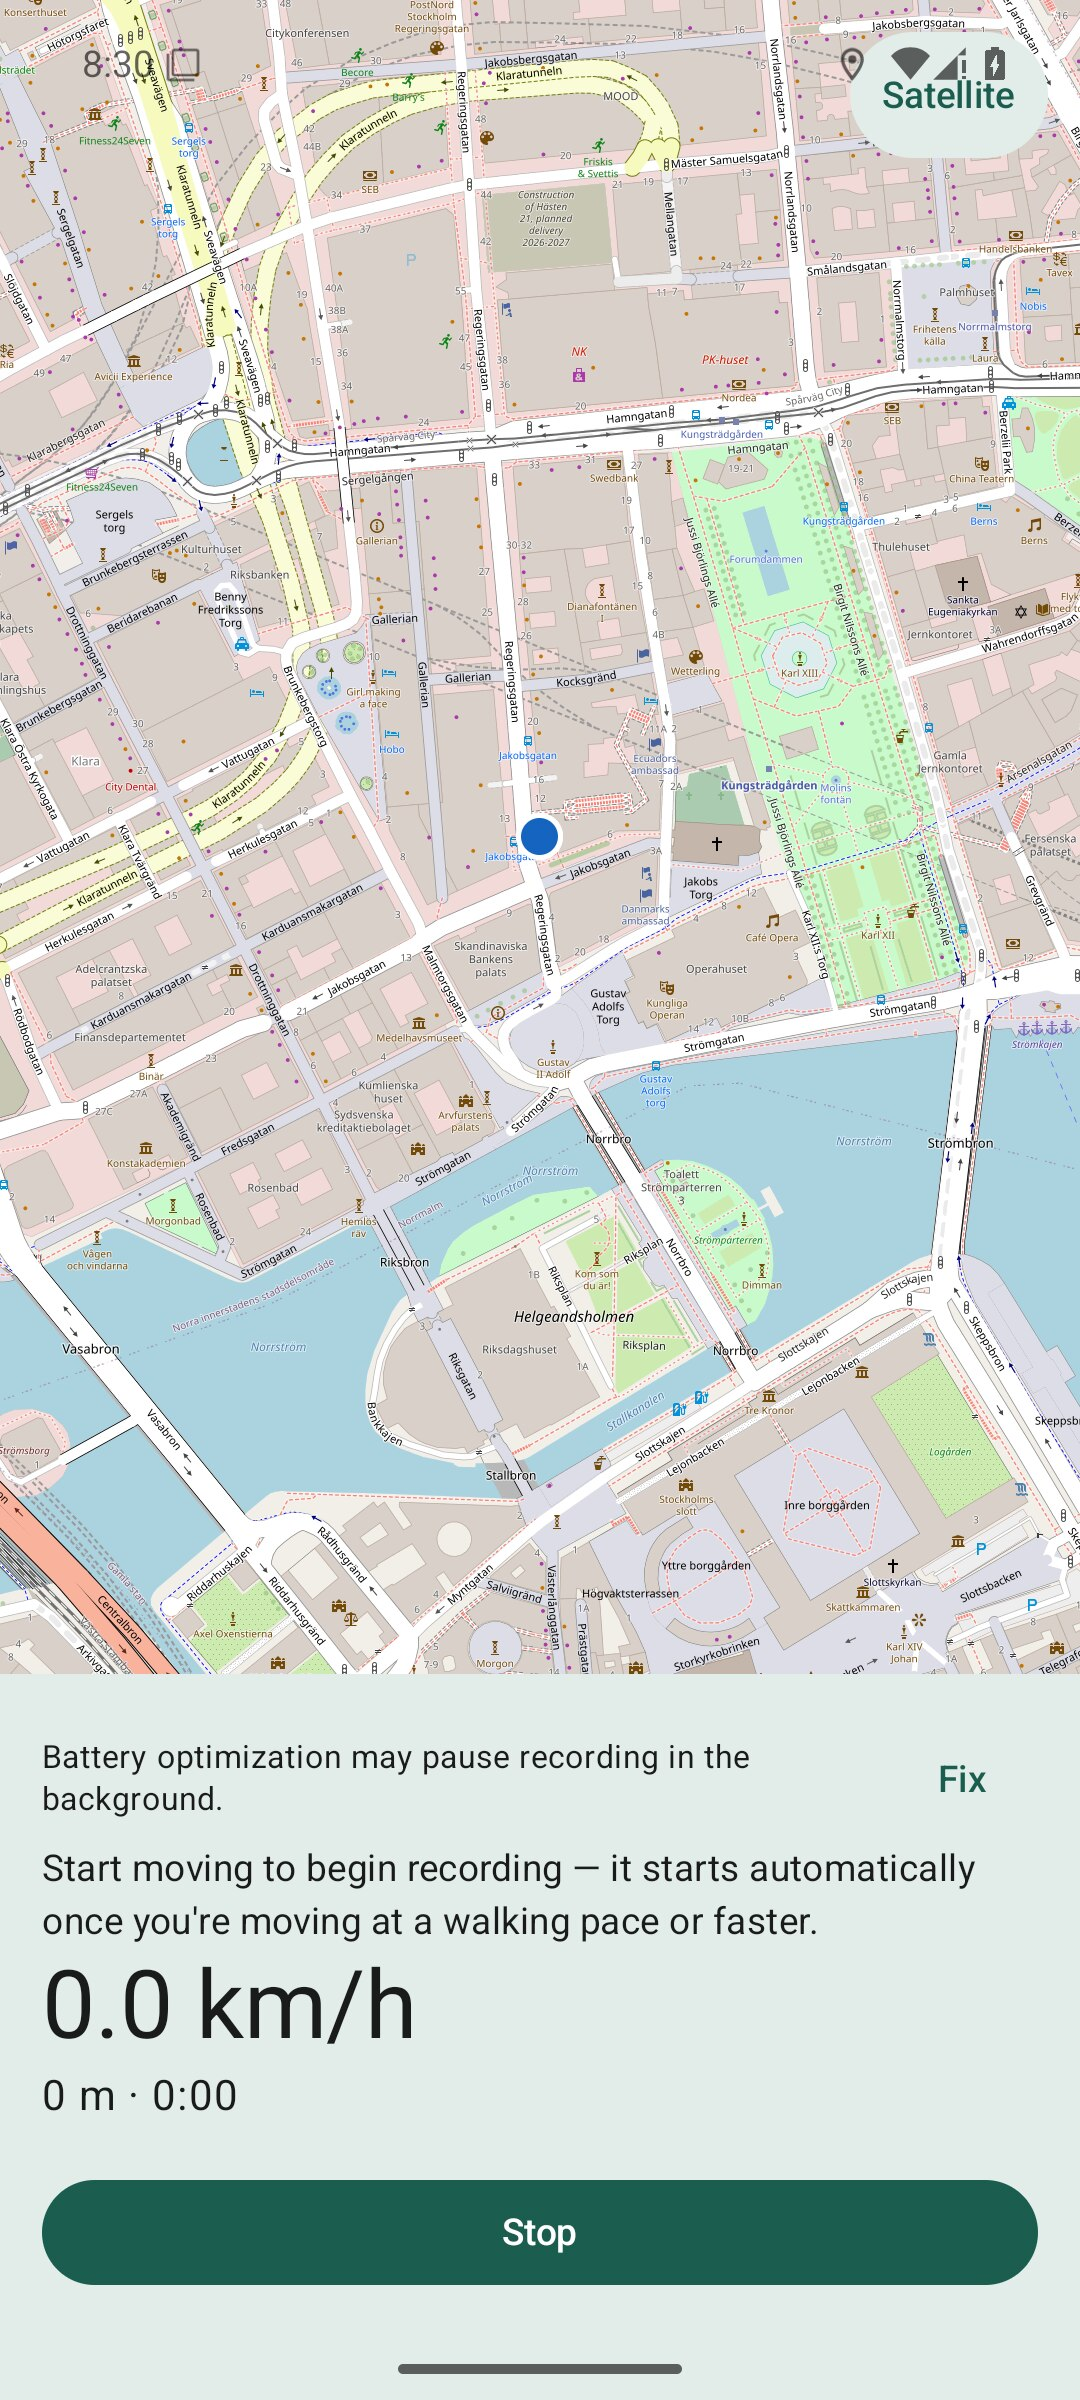
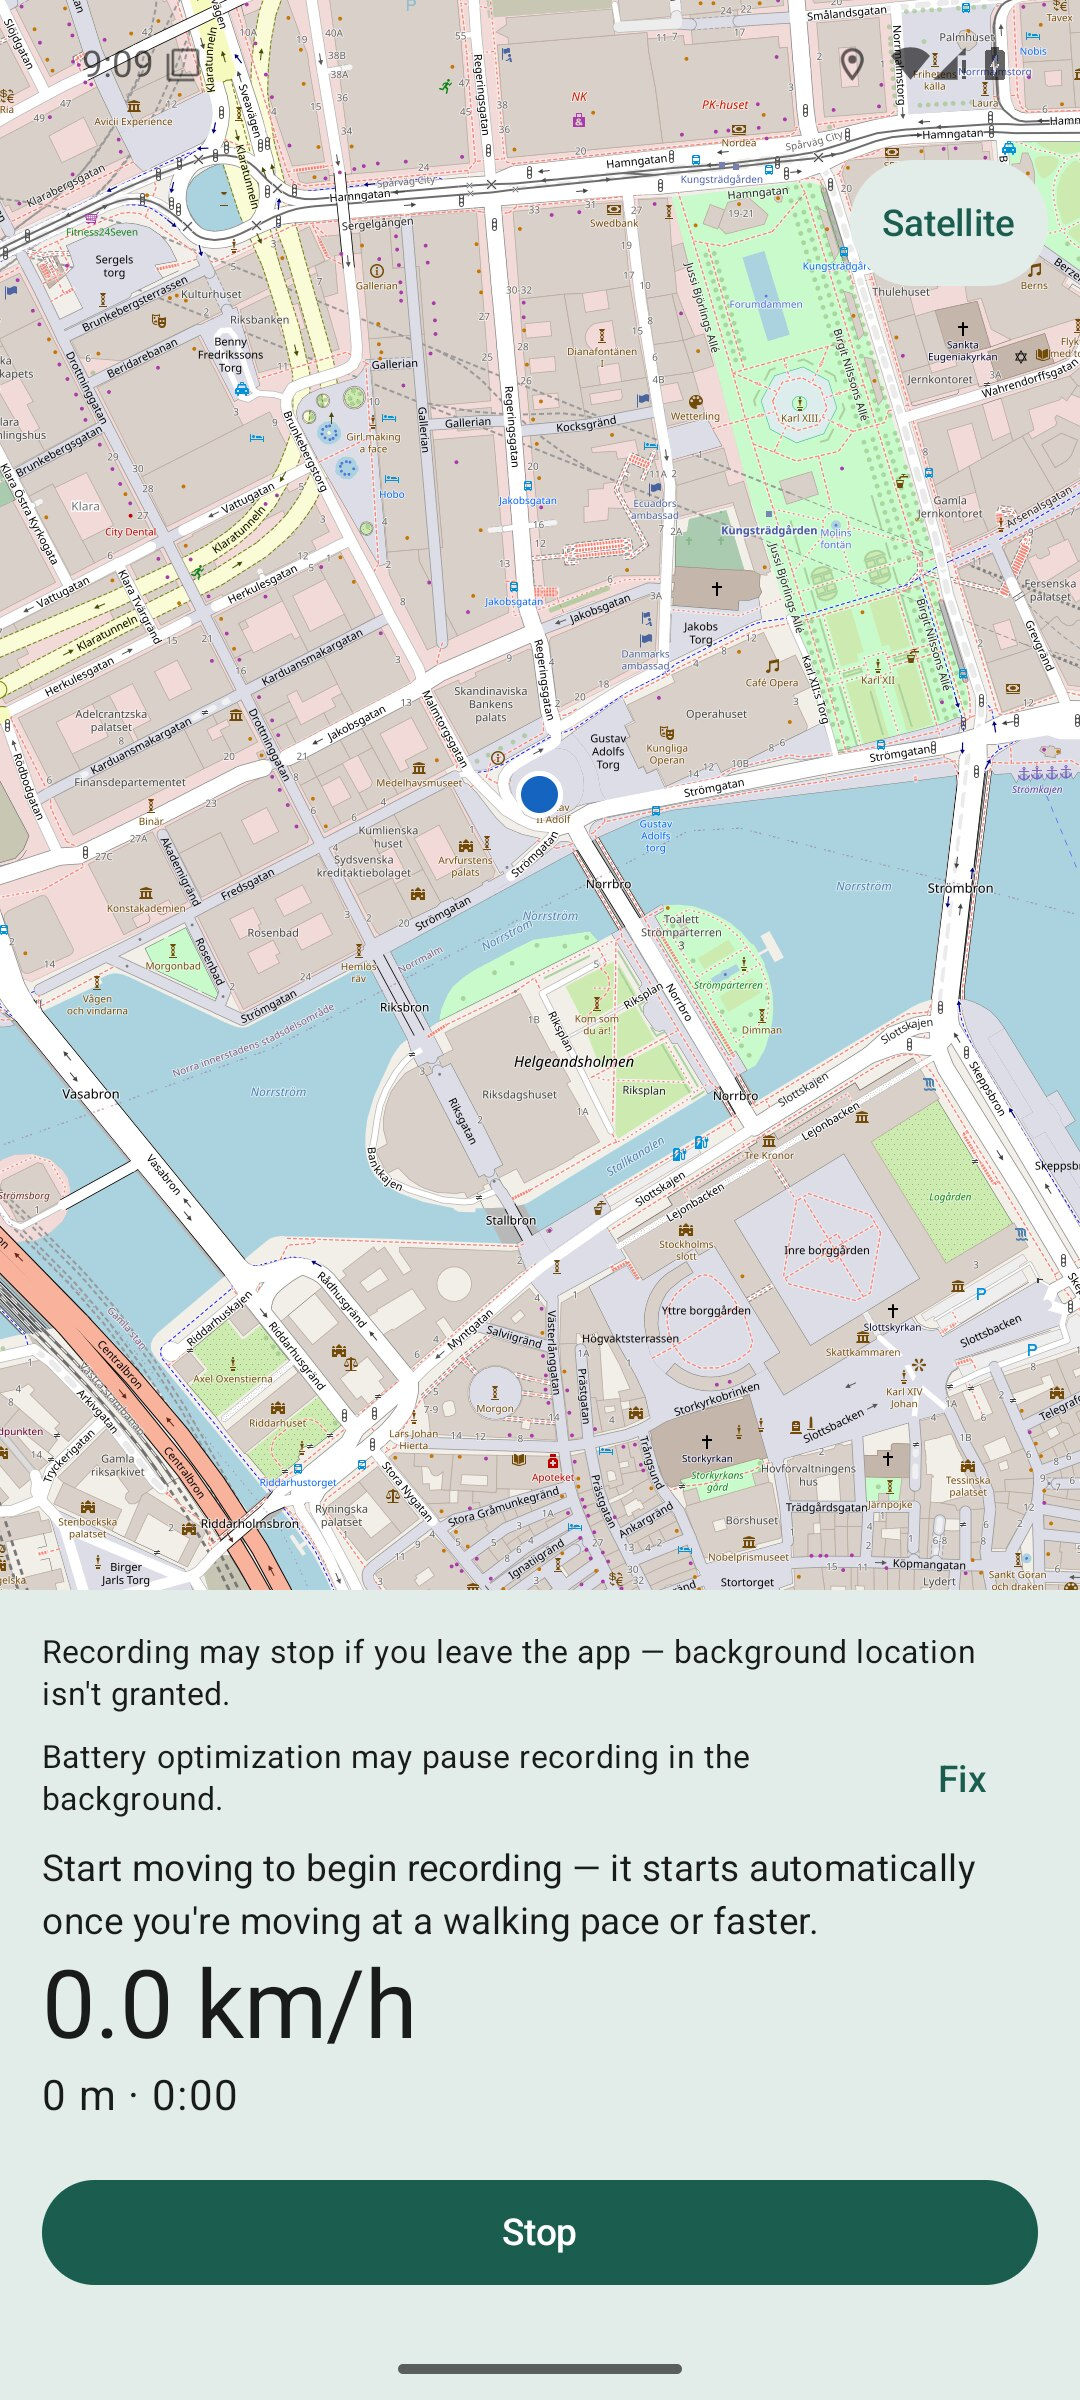
fix(android): add a status-bar inset to Tracking's satellite toggle
MainActivity draws edge-to-edge, and the toggle only had a flat 12dp
padding from the top of the screen — no accounting for the status bar,
so it could sit flush against (or under) the status bar icons, making it
easy to miss or to hit the notification shade instead of the button.
TrackingStatsPanel already does the equivalent for the bottom of the
screen (navigationBarsPadding); this adds statusBarsPadding for the top.

Updated docs/screenshots/3-tracking-waiting.jpg (and the matching Play
listing copy) to the corrected layout — same state, now with visible
clearance below the status bar.

Fixes #55

diff --git a/android/app/src/main/java/com/github/tomasbjerre/wisp/ui/tracking/TrackingScreen.kt b/android/app/src/main/java/com/github/tomasbjerre/wisp/ui/tracking/TrackingScreen.kt
@@ -9,6 +9,7 @@ import androidx.compose.foundation.layout.fillMaxSize
 import androidx.compose.foundation.layout.fillMaxWidth
 import androidx.compose.foundation.layout.navigationBarsPadding
 import androidx.compose.foundation.layout.padding
+import androidx.compose.foundation.layout.statusBarsPadding
 import androidx.compose.foundation.shape.RoundedCornerShape
 import androidx.compose.material3.Button
 import androidx.compose.material3.CircularProgressIndicator
@@ -105,7 +106,11 @@ fun TrackingScreen(
             MapTypeToggle(
                 mapType = mapType,
                 onToggle = { mapType = if (mapType == MapType.STANDARD) MapType.SATELLITE else MapType.STANDARD },
-                modifier = Modifier.align(Alignment.TopEnd).padding(12.dp),
+                // statusBarsPadding: MainActivity draws edge-to-edge (see
+                // TrackingStatsPanel's navigationBarsPadding below for the same reason
+                // at the bottom), so without this the toggle sits under the status bar
+                // — easy to miss or to hit the notification shade instead (see #55).
+                modifier = Modifier.align(Alignment.TopEnd).statusBarsPadding().padding(12.dp),
             )
         }
         TrackingStatsPanel(state = state, permissions = permissions)
